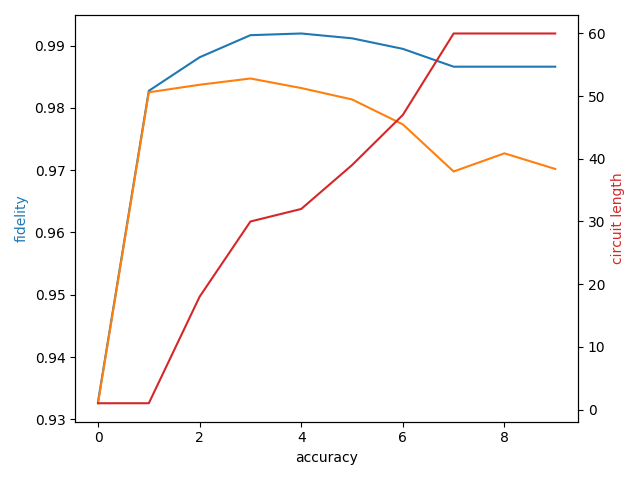
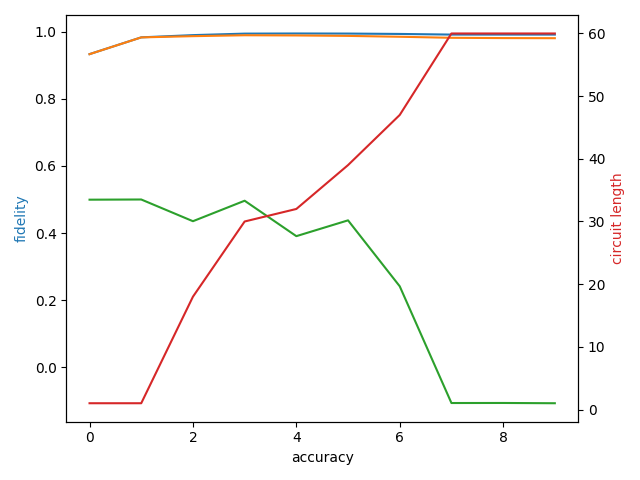
S fidelity and density runner work with as many ancillas as necessary

diff --git a/S_fidelity.py b/S_fidelity.py
@@ -2,7 +2,7 @@ import random
 import numpy as np
 from scipy.linalg import sqrtm
 import math
-from density_runner import apply_channel, run_by_matrices, run_with_noisy_ancilla
+from density_runner import apply_channel, run_by_matrices, ops
 
 
 def pure_density_from_state(state):
@@ -21,28 +21,37 @@ def random_state(dim):
     return c / (squared_modulus ** 0.5)
 
 
+def random_densities(dim, n_trials):
+    return [sum([r * pure_density_from_state(random_state(dim)) for r in np.random.dirichlet(np.ones(dim), size=1)[0]])
+            for _ in range(n_trials)]
+
+
 def f_min(channel1, channel2, n_trials):
-    # TODO: optimise over all tensor products up to size n
     dim = channel1[0].shape[0]
-    without_ancilla = min([fidelity(apply_channel(channel1, xi), apply_channel(channel2, xi)) for xi in
-                           [pure_density_from_state(random_state(dim)) for _ in range(n_trials)]])
-    channel1_ancilla = [np.kron(e, np.eye(dim)) for e in channel1]
-    channel2_ancilla = [np.kron(e, np.eye(dim)) for e in channel2]
-    with_ancilla = min([fidelity(apply_channel(channel1_ancilla, xi), apply_channel(channel2_ancilla, xi)) for xi in
-                        [pure_density_from_state(random_state(dim ** 2)) for _ in range(n_trials)]])
-    return min(with_ancilla, without_ancilla)
+    min_fidelity = min([fidelity(apply_channel(channel1, xi), apply_channel(channel2, xi)) for xi in
+                        random_densities(dim, n_trials)])
+    for k in range(int(math.log(dim, 2))):
+        channel1 = [np.kron(e, np.eye(2)) for e in channel1]
+        channel2 = [np.kron(e, np.eye(2)) for e in channel2]
+        with_ancilla = min([fidelity(apply_channel(channel1, xi), apply_channel(channel2, xi)) for xi in
+                            random_densities(2 ** (k + 1) * dim, n_trials)])
+        min_fidelity = min(min_fidelity, with_ancilla)
+    return min_fidelity
 
 
-def experimental(circuit_string, unitary, n_trials, *, p1=0, gamma1=0, gamma2=0):
-    # TODO: optimise over all tensor products up to size n
+def experimental(circuit_string, unitary, n_trials, *, p1=0, gamma1=0, gamma2=0, key=None):
     dim = unitary.shape[0]
-    without_ancilla = min([fidelity(run_by_matrices(circuit_string, xi, p1, gamma1, gamma2),
-                                    apply_channel([unitary], xi)) for xi in
-                           [pure_density_from_state(random_state(dim)) for _ in range(n_trials)]])
-    with_ancilla = min([fidelity(run_with_noisy_ancilla(circuit_string, xi, p1, gamma1, gamma2),
-                                 apply_channel([np.kron(unitary, np.eye(2))], xi)) for xi in
-                        [pure_density_from_state(random_state(dim ** 2)) for _ in range(n_trials)]])
-    return min(with_ancilla, without_ancilla)
+    if key is None:
+        key = ops
+    min_fidelity = min([fidelity(run_by_matrices(circuit_string, xi, p1, gamma1, gamma2, key),
+                                 apply_channel([unitary], xi)) for xi in random_densities(dim, n_trials)])
+    for i in range(int(math.log(dim, 2))):
+        key = {k: np.kron(v, np.eye(2)) for k, v in key.items()}
+        unitary = np.kron(unitary, np.eye(2))
+        with_ancilla = min([fidelity(run_by_matrices(circuit_string, xi, p1, gamma1, gamma2, key=key),
+                            apply_channel([unitary], xi)) for xi in random_densities(2 ** (i + 1) * dim, n_trials)])
+        min_fidelity = min(min_fidelity, with_ancilla)
+    return min_fidelity
 
 
 def angle(channel1, channel2):

diff --git a/density_runner.py b/density_runner.py
@@ -1,11 +1,12 @@
 from noise import *
+import math
 
 
 def apply_channel(channel, density):
     return sum([e @ density @ e.transpose().conjugate() for e in channel])
 
 
-ops = {"S": np.array([[1, 0], [0, complex(0,1)]]),
+ops = {"S": np.array([[1, 0], [0, complex(0, 1)]]),
        "T": np.array([[1, 0], [0, complex(0.5 ** 0.5, 0.5 ** 0.5)]]),
        "H": 0.5 ** 0.5 * np.array([[1, 1], [1, -1]]),
        "X": np.array([[0, 1], [1, 0]]),
@@ -13,39 +14,14 @@ ops = {"S": np.array([[1, 0], [0, complex(0,1)]]),
        "I": np.eye(2)}
 
 
-def run_by_matrices(string, start_density, p1=0, gamma1=0, gamma2=0):
-    depolarising = depolarising_channel(p1)
-    amplitude_damping = amplitude_damping_channel(gamma1)
-    phase_damping = phase_damping_channel(gamma2)
+def run_by_matrices(string, start_density, p1=0, gamma1=0, gamma2=0, key=ops):
+    n = int(math.log(start_density.shape[0], 2))
+    depolarising = depolarising_channel(p1, n_qubits=n)
+    amplitude_damping = amplitude_damping_channel(gamma1, n_qubits=n)
+    phase_damping = phase_damping_channel(gamma2, n_qubits=n)
     rho = start_density
     for s in string[::-1]:
-        rho = apply_channel([ops[s]], rho)
-        rho = apply_channel(depolarising, rho)
-        rho = apply_channel(amplitude_damping, rho)
-        rho = apply_channel(phase_damping, rho)
-    return rho
-
-
-def run_with_noisy_ancilla(string, start_density, p1=0, gamma1=0, gamma2=0):
-    depolarising = np.kron(depolarising_channel(p1), depolarising_channel(p1))
-    amplitude_damping = np.kron(amplitude_damping_channel(gamma1), amplitude_damping_channel(gamma1))
-    phase_damping = np.kron(phase_damping_channel(gamma2), phase_damping_channel(gamma2))
-    rho = start_density
-    for s in string[::-1]:
-        rho = apply_channel([np.kron(ops[s], np.eye(2))], rho)
-        rho = apply_channel(depolarising, rho)
-        rho = apply_channel(amplitude_damping, rho)
-        rho = apply_channel(phase_damping, rho)
-    return rho
-
-
-def run_with_noiseless_ancilla(string, start_density, p1=0, gamma1=0, gamma2=0):
-    depolarising = np.kron(depolarising_channel(p1), identity_channel(1))
-    amplitude_damping = np.kron(amplitude_damping_channel(gamma1), identity_channel(1))
-    phase_damping = np.kron(phase_damping_channel(gamma2), identity_channel(1))
-    rho = start_density
-    for s in string[::-1]:
-        rho = apply_channel([np.kron(ops[s], np.eye(2))], rho)
+        rho = apply_channel([key[s]], rho)
         rho = apply_channel(depolarising, rho)
         rho = apply_channel(amplitude_damping, rho)
         rho = apply_channel(phase_damping, rho)

diff --git a/J_fidelity.test.py b/J_fidelity.test.py
@@ -3,54 +3,54 @@ from noise import *
 import math
 from Pauli import *
 from density_runner import ops
-"""
 
-#print(f_pro(identity_channel(2), np.eye(4)))
+
+print(f_pro(identity_channel(2), np.eye(4)))
 
 
 theta = math.pi * 0.3
-#print(f_pro(identity_channel(2), np.kron(
-#    np.array([[math.cos(theta), -math.sin(theta)], [math.sin(theta), math.cos(theta)]]), I1)))
+print(f_pro(identity_channel(2), np.kron(
+    np.array([[math.cos(theta), -math.sin(theta)], [math.sin(theta), math.cos(theta)]]), I1)))
 
 
 p1 = 0.2
 depolarising = depolarising_channel(p1)
-#print(f_pro(depolarising, I1))
+print(f_pro(depolarising, I1))
 
 
 gamma1 = 0.2
 amplitude_damping = amplitude_damping_channel(gamma1)
-#print(f_pro(amplitude_damping, I1))
+print(f_pro(amplitude_damping, I1))
 
 
 gamma2 = 0.2
 phase_damping = phase_damping_channel(gamma2)
-#print(f_pro(phase_damping, I1))
+print(f_pro(phase_damping, I1))
 
 
 print(f_pro_experimental("I", np.eye(2)))
-print(f_pro_experimental("I", np.eye(2), simulate=True))
+#print(f_pro_experimental("I", np.eye(2), simulate=True))
 print()
 
 print(f_pro_experimental("X", np.eye(2)))
-print(f_pro_experimental("X", np.eye(2), simulate=True))
+#print(f_pro_experimental("X", np.eye(2), simulate=True))
 print()
 
 
-for _ in range(10):
-    print(f_pro_experimental("I", np.eye(2), simulate=True))
-print()
+#for _ in range(10):
+#    #print(f_pro_experimental("I", np.eye(2), simulate=True))
+#print()
 
 
 c = math.cos(math.pi/256)
 s = math.sin(math.pi/256)
 print(f_pro_experimental("HTSHTHTSHTSHTHTSHTHTHTSHTSHTHTSHTSHTSHTSHTSHTHTSHTSHTHT",
                          np.array([[complex(c, -s), 0], [0, complex(c, s)]])))
-print(f_pro_experimental("HTSHTHTSHTSHTHTSHTHTHTSHTSHTHTSHTSHTSHTSHTSHTHTSHTSHTHT",
-                         np.array([[complex(c, -s), 0], [0, complex(c, s)]]), simulate=True))
+#print(f_pro_experimental("HTSHTHTSHTSHTHTSHTHTHTSHTSHTHTSHTSHTSHTSHTSHTHTSHTSHTHT",
+#                         np.array([[complex(c, -s), 0], [0, complex(c, s)]]), simulate=True))
 print()
 
-"""
+
 theta = 1
 U = np.array([[complex(math.cos(theta / 2), - math.sin(theta / 2)), 0],
               [0, complex(math.cos(theta / 2), math.sin(theta / 2))]])
@@ -59,7 +59,7 @@ U = np.array([[complex(math.cos(theta / 2), - math.sin(theta / 2)), 0],
 for name, mat in ops.items():
     print(name)
     print(f_pro_experimental(name, U))
-    print(f_pro_experimental(name, U, simulate=True))
+    #print(f_pro_experimental(name, U, simulate=True))
     print()
 
 

diff --git a/noise.py b/noise.py
@@ -1,5 +1,6 @@
 from Pauli import *
 
+
 def not_channel(n_qubits):
     u = X
     for _ in range(n_qubits - 1):
@@ -11,14 +12,26 @@ def identity_channel(n_qubits):
     return [np.eye(2 ** n_qubits)]
 
 
-def depolarising_channel(p1):
-    return [p * M for p, M in zip(
+def depolarising_channel(p1, n_qubits=1):
+    basic_channel = [p * M for p, M in zip(
             [(1 - p1) ** 0.5, (p1 / 3) ** 0.5, (p1 / 3) ** 0.5, (p1 / 3) ** 0.5], one_qubit_diracs)]
+    channel = basic_channel
+    for _ in range(n_qubits - 1):
+        channel = [np.kron(channel[i], basic_channel[i]) for i in range(4)]
+    return channel
 
 
-def amplitude_damping_channel(gamma):
-    return [np.array([[1, 0], [0, (1 - gamma) ** 0.5]]), np.array([[0, gamma ** 0.5], [0, 0]])]
+def amplitude_damping_channel(gamma, n_qubits=1):
+    basic_channel = [np.array([[1, 0], [0, (1 - gamma) ** 0.5]]), np.array([[0, gamma ** 0.5], [0, 0]])]
+    channel = basic_channel
+    for _ in range(n_qubits - 1):
+        channel = [np.kron(channel[i], basic_channel[i]) for i in range(2)]
+    return channel
 
 
-def phase_damping_channel(gamma):
-    return [np.array([[1, 0], [0, (1 - gamma) ** 0.5]]), np.array([[0, 0], [0, gamma ** 0.5]])]
+def phase_damping_channel(gamma, n_qubits=1):
+    basic_channel = [np.array([[1, 0], [0, (1 - gamma) ** 0.5]]), np.array([[0, 0], [0, gamma ** 0.5]])]
+    channel = basic_channel
+    for _ in range(n_qubits - 1):
+        channel = [np.kron(channel[i], basic_channel[i]) for i in range(2)]
+    return channel

diff --git a/S_fidelity.test.py b/S_fidelity.test.py
@@ -1,6 +1,20 @@
 from S_fidelity import *
 from noise import *
 import math
+from density_runner import ops
+
+
+print([np.trace(rho) for rho in random_densities(2, 10)])
+
+print(experimental("HTSHTHTSHTSHTHTSHTHTHTSHTSHTHTSHTSHTSHTSHTSHTHTSHTSHTHT",
+                   np.array([[complex(math.cos(math.pi / 128), -math.sin(math.pi/128)), 0],
+                             [0, complex(math.cos(math.pi / 128), math.sin(math.pi/128))]]), 100))
+
+
+print(experimental("HTSHTHTSHTSHTHTSHTHTHTSHTSHTHTSHTSHTSHTSHTSHTHTSHTSHTHT",
+                   np.kron(np.array([[complex(math.cos(math.pi / 128), -math.sin(math.pi/128)), 0],
+                             [0, complex(math.cos(math.pi / 128), math.sin(math.pi/128))]]), np.eye(2)), 100,
+                   key={k: np.kron(v, np.eye(2)) for k, v in ops.items()}))
 
 
 print(f_min(identity_channel(2), identity_channel(2), 100))

diff --git a/runner.test.py b/runner.test.py
@@ -1,4 +1,15 @@
 from approximation_runner import *
+import density_runner
 from Pauli import *
 
-print(get_expectation(Z, "HTSHTHTSHTSHTHTSHTHTHTSHTSHTHTSHTSHTSHTSHTSHTHTSHTSHTHT"))
+s = "HTSHTHTSHTSHTHTSHTHTHTSHTSHTHTSHTSHTSHTSHTSHTHTSHTSHTHT"
+
+#for m in one_qubit_diracs:
+#    print(get_expectation(I1, s) - np.trace(I1 @ density_runner.run_by_matrices(s, np.array([[1, 0], [0, 0]]))).real)
+
+
+def my_circuit_maker(c):
+    c.measure_all()
+    c.H(0)
+    c.measure_all()
+print(run_circuit("I", 0,0,0, prep_circuit=my_circuit_maker))

diff --git a/J_fidelity.py b/J_fidelity.py
@@ -50,7 +50,7 @@ def f_pro_experimental(circuit_string, unitary, p1=0, gamma1=0, gamma2=0, simula
     else:
         expectations = [np.trace(sigmas[k] @ density_runner.run_by_matrices(circuit_string, state_basis[k], p1, gamma1, gamma2))
                         .real for k in range(dim ** 2)]
-    print(expectations)
+    # print(expectations)
     return 1 / dim ** 3 * sum(expectations)
 
 
